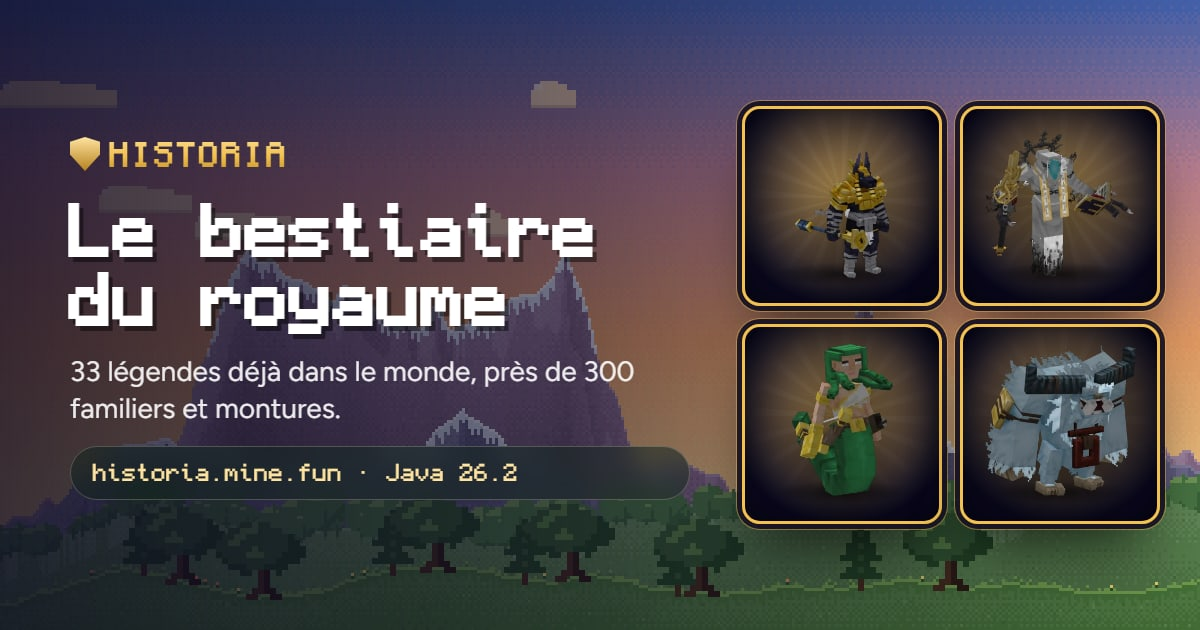
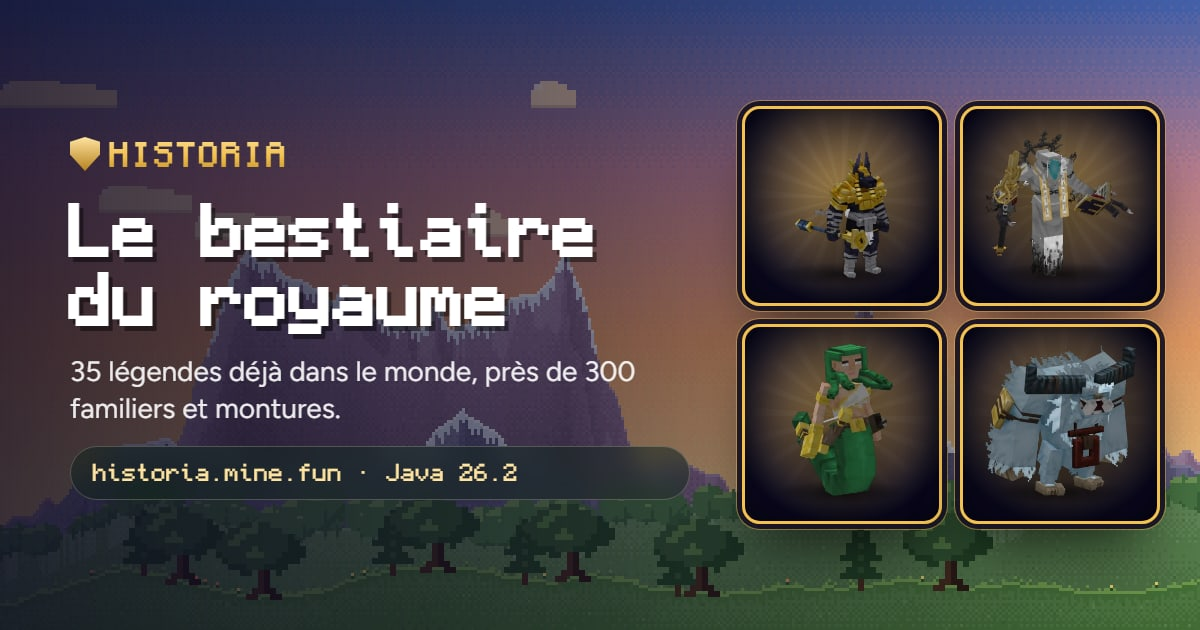
Bestiaire : onglet Créatures (les troupes de chaque peuple), Forgeron nain et Kur ajoutés aux légendes (35) ; données des peuples partagées avec l'accueil

Changed region(s): [[0.0617, 0.573, 0.555, 0.6032]]

diff --git a/bestiaire.html b/bestiaire.html
@@ -4,11 +4,11 @@
 <meta charset="utf-8">
 <meta name="viewport" content="width=device-width, initial-scale=1">
 <title>Bestiaire : boss, familiers et montures · Historia</title>
-<meta name="description" content="Les 33 boss d'Historia déjà présents dans le monde, avec leur biome et leur repaire, et près de 300 familiers et montures à gagner en jeu.">
+<meta name="description" content="Les 35 boss d'Historia déjà présents dans le monde, avec leur biome et leur repaire, et près de 300 familiers et montures à gagner en jeu.">
 <meta property="og:type" content="website">
 <meta property="og:site_name" content="Historia">
 <meta property="og:title" content="Bestiaire : boss, familiers et montures · Historia">
-<meta property="og:description" content="Les 33 boss d'Historia déjà présents dans le monde, avec leur biome et leur repaire, et près de 300 familiers et montures à gagner en jeu.">
+<meta property="og:description" content="Les 35 boss d'Historia déjà présents dans le monde, avec leur biome et leur repaire, et près de 300 familiers et montures à gagner en jeu.">
 <meta property="og:image" content="https://antaooo.github.io/historia-site/img/partage/bestiaire.jpg">
 <meta property="og:url" content="https://antaooo.github.io/historia-site/bestiaire.html">
 <meta property="og:image:width" content="1200">
@@ -25,7 +25,7 @@
 <link rel="canonical" href="https://antaooo.github.io/historia-site/bestiaire.html">
 <meta property="og:locale" content="fr_FR">
 <meta name="twitter:title" content="Bestiaire : boss, familiers et montures · Historia">
-<meta name="twitter:description" content="Les 33 boss d'Historia déjà présents dans le monde, avec leur biome et leur repaire, et près de 300 familiers et montures à gagner en jeu.">
+<meta name="twitter:description" content="Les 35 boss d'Historia déjà présents dans le monde, avec leur biome et leur repaire, et près de 300 familiers et montures à gagner en jeu.">
 <meta name="twitter:image" content="https://antaooo.github.io/historia-site/img/partage/bestiaire.jpg">
 <script type="application/ld+json">{"@context":"https://schema.org","@type":"BreadcrumbList","itemListElement":[{"@type":"ListItem","position":1,"name":"Accueil","item":"https://antaooo.github.io/historia-site/"},{"@type":"ListItem","position":2,"name":"Bestiaire","item":"https://antaooo.github.io/historia-site/bestiaire.html"}]}</script>
 <!-- /seo -->
@@ -62,11 +62,12 @@
     <div class="conteneur">
       <div class="bestiaire-onglets" role="tablist" aria-label="Bestiaire">
         <button type="button" role="tab" id="onglet-legendes" aria-selected="true" aria-controls="panneau-legendes">Légendes</button>
+        <button type="button" role="tab" id="onglet-creatures" aria-selected="false" aria-controls="panneau-creatures">Créatures</button>
         <button type="button" role="tab" id="onglet-compagnons" aria-selected="false" aria-controls="panneau-compagnons">Familiers et montures</button>
       </div>
       <div id="panneau-legendes" role="tabpanel" aria-labelledby="onglet-legendes">
       <div class="bestiaire-outils">
-        <p class="bestiaire-compte"><b id="nb-legendes">33</b> légendes déjà dans le monde</p>
+        <p class="bestiaire-compte"><b id="nb-legendes">35</b> légendes déjà dans le monde</p>
         <label class="recherche"><span class="visuellement-cache">Chercher une légende</span><input id="recherche" type="search" placeholder="Chercher : dragon, marais, Anubis…" autocomplete="off"></label>
       </div>
       <div class="filtres familles" id="familles" role="group" aria-label="Filtrer par famille"></div>
@@ -143,6 +144,14 @@
       <dl class="fiche-boss-lieu"><div><dt>Biome</dt><dd>Caldeira, Coulées de lave</dd></div><div><dt>Repaire</dt><dd>Errant</dd></div></dl>
       <p class="fiche-boss-texte">On ne le trouve dans aucun repaire : il marche au hasard des coulées de lave, flamme vivante qui embrase tout sur son passage.</p>
     </article>
+    <article class="fiche-boss carte-verre" id="boss-dwarf_blacksmith" style="--c:#8A8A96" data-famille="Nains" data-texte="le forgeron nain gardien de la porte scellée pics de granit, falaises blanches porte scellée nains">
+      <figure class="fenetre-boss fiche-boss-portrait"><img src="img/boss/p_dwarf_blacksmith.webp" alt="Le Forgeron nain" loading="lazy" width="320" height="320"></figure>
+      <p class="fiche-boss-famille">Nains</p>
+      <h2 class="fiche-boss-nom">Le Forgeron nain</h2>
+      <p class="fiche-boss-titre">Gardien de la porte scellée</p>
+      <dl class="fiche-boss-lieu"><div><dt>Biome</dt><dd>Pics de granit, Falaises blanches</dd></div><div><dt>Repaire</dt><dd>Porte scellée</dd></div></dl>
+      <p class="fiche-boss-texte">Devant une porte que personne n'a rouverte depuis des siècles, le dernier forgeron du royaume nain monte la garde, marteau au poing. Ses enclumes chauffent encore.</p>
+    </article>
     <article class="fiche-boss carte-verre" id="boss-glume" style="--c:#3F9D8F" data-famille="Esprits et féerique" data-texte="glume l'esprit des champignons géants île aux champignons, forêt sombre champignons géants esprits et féerique">
       <figure class="fenetre-boss fiche-boss-portrait"><img src="img/boss/p_glume.webp" alt="Glume" loading="lazy" width="320" height="320"></figure>
       <p class="fiche-boss-famille">Esprits et féerique</p>
@@ -182,6 +191,14 @@
       <p class="fiche-boss-titre">Le gardien enchaîné</p>
       <dl class="fiche-boss-lieu"><div><dt>Biome</dt><dd>Plaines, Forêt</dd></div><div><dt>Repaire</dt><dd>Église du gardien</dd></div></dl>
       <p class="fiche-boss-texte">Dans une église en ruine, un guerrier drapé et chargé de chaînes dort d'un sommeil de pierre. Approche-toi trop, et il se réveille.</p>
+    </article>
+    <article class="fiche-boss carte-verre" id="boss-kur" style="--c:#6F9A2A" data-famille="Gobelins" data-texte="kur le seigneur gobelin corrompu plaines, forêt lunaire camp gobelin, faille corrompue gobelins">
+      <figure class="fenetre-boss fiche-boss-portrait"><img src="img/boss/p_kur.webp" alt="Kur" loading="lazy" width="320" height="320"></figure>
+      <p class="fiche-boss-famille">Gobelins</p>
+      <h2 class="fiche-boss-nom">Kur</h2>
+      <p class="fiche-boss-titre">Le seigneur gobelin corrompu</p>
+      <dl class="fiche-boss-lieu"><div><dt>Biome</dt><dd>Plaines, Forêt lunaire</dd></div><div><dt>Repaire</dt><dd>Camp gobelin, Faille corrompue</dd></div></dl>
+      <p class="fiche-boss-texte">Plus grand, plus fort et plus cruel que ses congénères, Kur surgit parfois dans les camps gobelins. On le dit né de la faille corrompue qui ronge la forêt lunaire.</p>
     </article>
     <article class="fiche-boss carte-verre" id="boss-lillith" style="--c:#C0453A" data-famille="Démons" data-texte="lillith la démone du cercle bois hanté cercle d'invocation démons">
       <figure class="fenetre-boss fiche-boss-portrait"><img src="img/boss/p_lillith.webp" alt="Lillith" loading="lazy" width="320" height="320"></figure>
@@ -336,6 +353,46 @@
       <p class="fiche-boss-texte">Dans une cabane sur pilotis noyée de vapeurs, un alchimiste poursuit des expériences que nul n'aurait dû tenter. Ce qu'il a créé rôde encore autour du laboratoire.</p>
     </article></div>
       <p class="bestiaire-aucun" id="aucun" hidden>Aucune légende ne correspond. Elle se cache peut-être encore…</p>
+      </div>
+      <div id="panneau-creatures" role="tabpanel" aria-labelledby="onglet-creatures" hidden>
+        <p class="bestiaire-compte">Les troupes que tu croiseras, peuple par peuple.</p>
+        <section class="peuple-bloc" style="--c:#8F6FC9" aria-label="Elfes">
+          <header class="peuple-entete"><h2 class="h2-petit">Elfes</h2><span>Forêt lunaire · Jardin des fées</span><span class="peuple-chefs">Mené par la Druidesse elfe</span></header>
+          <ul class="peuple-troupes"><li><span class="troupe-image"><img src="img/sbires/elven_swordsman.webp" alt="Épéiste elfe" loading="lazy" width="160" height="160"></span><span class="troupe-nom">Épéiste elfe</span></li><li><span class="troupe-image"><img src="img/sbires/elven_ranger.webp" alt="Rôdeur elfe" loading="lazy" width="160" height="160"></span><span class="troupe-nom">Rôdeur elfe</span></li><li><span class="troupe-image"><img src="img/sbires/elven_mage.webp" alt="Mage elfe" loading="lazy" width="160" height="160"></span><span class="troupe-nom">Mage elfe</span></li><li><span class="troupe-image"><img src="img/sbires/elven_runebear.webp" alt="Ours runique" loading="lazy" width="160" height="160"></span><span class="troupe-nom">Ours runique</span></li></ul>
+        </section>
+        <section class="peuple-bloc" style="--c:#8A8A96" aria-label="Nains">
+          <header class="peuple-entete"><h2 class="h2-petit">Nains</h2><span>Pics de granit · Mines</span><span class="peuple-chefs">Mené par le Forgeron nain</span></header>
+          <ul class="peuple-troupes"><li><span class="troupe-image"><img src="img/sbires/dwarf_knight.webp" alt="Chevalier nain" loading="lazy" width="160" height="160"></span><span class="troupe-nom">Chevalier nain</span></li><li><span class="troupe-image"><img src="img/sbires/dwarf_huntsman.webp" alt="Chasseur nain" loading="lazy" width="160" height="160"></span><span class="troupe-nom">Chasseur nain</span></li><li><span class="troupe-image"><img src="img/sbires/dwarf_cleric.webp" alt="Clerc nain" loading="lazy" width="160" height="160"></span><span class="troupe-nom">Clerc nain</span></li><li><span class="troupe-image"><img src="img/sbires/koboldassassin.webp" alt="Assassin kobold" loading="lazy" width="160" height="160"></span><span class="troupe-nom">Assassin kobold</span></li></ul>
+        </section>
+        <section class="peuple-bloc" style="--c:#6F9A2A" aria-label="Gobelins">
+          <header class="peuple-entete"><h2 class="h2-petit">Gobelins</h2><span>Plaines · Savane · Steppe</span><span class="peuple-chefs">Mené par le Roi gobelin et Kur</span></header>
+          <ul class="peuple-troupes"><li><span class="troupe-image"><img src="img/sbires/gp2_goblin_archer.webp" alt="Guerrier gobelin" loading="lazy" width="160" height="160"></span><span class="troupe-nom">Guerrier gobelin</span></li><li><span class="troupe-image"><img src="img/sbires/gp2_goblin_shaman.webp" alt="Chaman gobelin" loading="lazy" width="160" height="160"></span><span class="troupe-nom">Chaman gobelin</span></li></ul>
+        </section>
+        <section class="peuple-bloc" style="--c:#4C78A8" aria-label="Vikings">
+          <header class="peuple-entete"><h2 class="h2-petit">Vikings</h2><span>Taïga · Forêt boréale</span><span class="peuple-chefs">Mené par Bjorn l'Exalté</span></header>
+          <ul class="peuple-troupes"><li><span class="troupe-image"><img src="img/sbires/viking_npc.webp" alt="Guerrier viking" loading="lazy" width="160" height="160"></span><span class="troupe-nom">Guerrier viking</span></li></ul>
+        </section>
+        <section class="peuple-bloc" style="--c:#2F7FA5" aria-label="Pirates">
+          <header class="peuple-entete"><h2 class="h2-petit">Pirates</h2><span>Côtes · Abysses</span><span class="peuple-chefs">Mené par Capitaine DeadBeard et le Kraken</span></header>
+          <ul class="peuple-troupes"><li><span class="troupe-image"><img src="img/sbires/piratepack_crewmate.webp" alt="Pirate de l'équipage" loading="lazy" width="160" height="160"></span><span class="troupe-nom">Pirate de l'équipage</span></li><li><span class="troupe-image"><img src="img/sbires/pirate_swordsman.webp" alt="Pirate sabreur" loading="lazy" width="160" height="160"></span><span class="troupe-nom">Pirate sabreur</span></li><li><span class="troupe-image"><img src="img/sbires/pirate_gunner.webp" alt="Pirate tireur" loading="lazy" width="160" height="160"></span><span class="troupe-nom">Pirate tireur</span></li><li><span class="troupe-image"><img src="img/sbires/piratepack_crab.webp" alt="Crabe pirate" loading="lazy" width="160" height="160"></span><span class="troupe-nom">Crabe pirate</span></li></ul>
+        </section>
+        <section class="peuple-bloc" style="--c:#5F8F7A" aria-label="Morts-vivants">
+          <header class="peuple-entete"><h2 class="h2-petit">Morts-vivants</h2><span>Désert · Marais maudit · Forêts</span><span class="peuple-chefs">Mené par Anubis et Mortos</span></header>
+          <ul class="peuple-troupes"><li><span class="troupe-image"><img src="img/sbires/lr_anubis_mummy.webp" alt="Momie d'Anubis" loading="lazy" width="160" height="160"></span><span class="troupe-nom">Momie d'Anubis</span></li><li><span class="troupe-image"><img src="img/sbires/tower_skeleton.webp" alt="Squelette de la tour" loading="lazy" width="160" height="160"></span><span class="troupe-nom">Squelette de la tour</span></li><li><span class="troupe-image"><img src="img/sbires/azriel_minion.webp" alt="Sbire d'Azriel" loading="lazy" width="160" height="160"></span><span class="troupe-nom">Sbire d'Azriel</span></li><li><span class="troupe-image"><img src="img/sbires/modelfoundry_mutant_zombie_strong.webp" alt="Zombie mutant" loading="lazy" width="160" height="160"></span><span class="troupe-nom">Zombie mutant</span></li></ul>
+        </section>
+        <section class="peuple-bloc" style="--c:#A23A3A" aria-label="Démons">
+          <header class="peuple-entete"><h2 class="h2-petit">Démons</h2><span>Bois hanté · Caldeira</span><span class="peuple-chefs">Mené par Lillith et Démon du chaos</span></header>
+          <ul class="peuple-troupes"><li><span class="troupe-image"><img src="img/sbires/halloweenpackvol3_imp.webp" alt="Diablotin" loading="lazy" width="160" height="160"></span><span class="troupe-nom">Diablotin</span></li><li><span class="troupe-image"><img src="img/sbires/piglin_mage.webp" alt="Piglin mage" loading="lazy" width="160" height="160"></span><span class="troupe-nom">Piglin mage</span></li><li><span class="troupe-image"><img src="img/sbires/piglin_marauder.webp" alt="Piglin maraudeur" loading="lazy" width="160" height="160"></span><span class="troupe-nom">Piglin maraudeur</span></li><li><span class="troupe-image"><img src="img/sbires/demon_reaper.webp" alt="Faucheur démoniaque" loading="lazy" width="160" height="160"></span><span class="troupe-nom">Faucheur démoniaque</span></li></ul>
+        </section>
+        <section class="peuple-bloc" style="--c:#3F9D8F" aria-label="Esprits de la forêt">
+          <header class="peuple-entete"><h2 class="h2-petit">Esprits de la forêt</h2><span>Forêts · Vallée des sakuras</span><span class="peuple-chefs">Mené par le Roi des ents et Hana</span></header>
+          <ul class="peuple-troupes"><li><span class="troupe-image"><img src="img/sbires/ent_warrior.webp" alt="Ent guerrier" loading="lazy" width="160" height="160"></span><span class="troupe-nom">Ent guerrier</span></li><li><span class="troupe-image"><img src="img/sbires/ent_sorcerer.webp" alt="Ent sorcier" loading="lazy" width="160" height="160"></span><span class="troupe-nom">Ent sorcier</span></li><li><span class="troupe-image"><img src="img/sbires/sakura_tree_ent.webp" alt="Ent de cerisier" loading="lazy" width="160" height="160"></span><span class="troupe-nom">Ent de cerisier</span></li><li><span class="troupe-image"><img src="img/sbires/oak_entling.webp" alt="Pousse d'ent" loading="lazy" width="160" height="160"></span><span class="troupe-nom">Pousse d'ent</span></li></ul>
+        </section>
+        <section class="peuple-bloc" style="--c:#6AA7C7" aria-label="Golems">
+          <header class="peuple-entete"><h2 class="h2-petit">Golems</h2><span>Grottes · Géodes</span><span class="peuple-chefs">Mené par le Méga-Gardien et Golem d'améthyste</span></header>
+          <ul class="peuple-troupes"><li><span class="troupe-image"><img src="img/sbires/diamondgolem.webp" alt="Golem de diamant" loading="lazy" width="160" height="160"></span><span class="troupe-nom">Golem de diamant</span></li><li><span class="troupe-image"><img src="img/sbires/emeraldgolem.webp" alt="Golem d'émeraude" loading="lazy" width="160" height="160"></span><span class="troupe-nom">Golem d'émeraude</span></li><li><span class="troupe-image"><img src="img/sbires/quartzgolem.webp" alt="Golem de quartz" loading="lazy" width="160" height="160"></span><span class="troupe-nom">Golem de quartz</span></li><li><span class="troupe-image"><img src="img/sbires/rock_golem.webp" alt="Golem de roche" loading="lazy" width="160" height="160"></span><span class="troupe-nom">Golem de roche</span></li></ul>
+        </section>
+        <p class="note bestiaire-note">Et des centaines d'autres créatures, des plaines aux abysses.</p>
       </div>
       <div id="panneau-compagnons" role="tabpanel" aria-labelledby="onglet-compagnons" hidden>
         <div class="bestiaire-outils">

diff --git a/bestiaire.js b/bestiaire.js
@@ -15,6 +15,8 @@
     ["goblin_king", "Le Roi gobelin", "Chef des pillards verts", "Gobelins", "Plaines, Savane", "Camp gobelin", "Au milieu de son camp de bric et de broc, le roi gobelin commande une horde armée de poêles et de fourches. Là où il trône, sa bande n'est jamais loin."],
     ["hana", "Hana", "Gardienne des sakuras", "Esprits et féerique", "Vallée des sakuras, Jardin des fées", "Sakura colossal", "Au pied du cerisier géant, sur un tapis de pétales roses, une jeune fille aux bois de cerf attend, une lame à la main. La beauté du lieu ne doit pas te faire baisser ta garde."],
     ["kraken", "Le Kraken", "Terreur des épaves englouties", "Créatures marines", "Abysses, Récif des merveilles", "Épaves", "Les navires coulés ne sont pas abandonnés : des tentacules immenses s'enroulent autour de leurs coques. Plonge vers un trésor englouti à tes risques et périls."],
+    ["dwarf_blacksmith", "Le Forgeron nain", "Gardien de la porte scellée", "Nains", "Pics de granit, Falaises blanches", "Porte scellée", "Devant une porte que personne n'a rouverte depuis des siècles, le dernier forgeron du royaume nain monte la garde, marteau au poing. Ses enclumes chauffent encore."],
+    ["kur", "Kur", "Le seigneur gobelin corrompu", "Gobelins", "Plaines, Forêt lunaire", "Camp gobelin, Faille corrompue", "Plus grand, plus fort et plus cruel que ses congénères, Kur surgit parfois dans les camps gobelins. On le dit né de la faille corrompue qui ronge la forêt lunaire."],
     ["kriger", "Kriger", "Le gardien enchaîné", "Morts-vivants", "Plaines, Forêt", "Église du gardien", "Dans une église en ruine, un guerrier drapé et chargé de chaînes dort d'un sommeil de pierre. Approche-toi trop, et il se réveille."],
     ["lillith", "Lillith", "La démone du cercle", "Démons", "Bois hanté", "Cercle d'invocation", "Au cœur du bois hanté, une clairière de cendres s'ouvre autour d'un cercle de pierres calcinées. Le rituel inachevé n'attend qu'un imprudent pour faire surgir la démone."],
     ["lr_anubis", "Anubis", "Seigneur du tombeau ensablé", "Morts-vivants", "Désert", "Tombeau d'Anubis", "Une pyramide à demi enfouie sous le sable garde son maître à tête de chacal. Il dort sur son trône, entouré de momies, jusqu'à ce qu'un pilleur ose s'approcher."],
@@ -38,7 +40,7 @@
     ["wu", "Wu, maître d'encre", "Le maître du pavillon", "Esprits et féerique", "Bambouseraie brumeuse", "Pavillon de l'encre", "Derrière une porte de lune, au bord d'un étang à lotus, un pavillon abrite la table du calligraphe. Qui touche à ses pinceaux réveille le maître d'encre."],
     ["zahar", "Zahar", "L'alchimiste fou du marais", "Sorciers et alchimistes", "Marais maudit", "Laboratoire interdit", "Dans une cabane sur pilotis noyée de vapeurs, un alchimiste poursuit des expériences que nul n'aurait dû tenter. Ce qu'il a créé rôde encore autour du laboratoire."],
   ];
-  const TEINTE = { "Bêtes et monstres": "#C08A4B", "Morts-vivants": "#5F8F7A", "Démons": "#C0453A", "Esprits et féerique": "#3F9D8F", "Golems et êtres minéraux": "#6AA7C7", "Créatures marines": "#2F7FA5", "Elfes": "#8F6FC9", "Gobelins": "#6F9A2A", "Vikings": "#4C78A8", "Pirates": "#2F7FA5", "Humains": "#C08A4B", "Sorciers et alchimistes": "#9A6FB0" };
+  const TEINTE = { "Bêtes et monstres": "#C08A4B", "Morts-vivants": "#5F8F7A", "Démons": "#C0453A", "Esprits et féerique": "#3F9D8F", "Golems et êtres minéraux": "#6AA7C7", "Créatures marines": "#2F7FA5", "Elfes": "#8F6FC9", "Gobelins": "#6F9A2A", "Vikings": "#4C78A8", "Nains": "#8A8A96", "Pirates": "#2F7FA5", "Humains": "#C08A4B", "Sorciers et alchimistes": "#9A6FB0" };
   const tri = (a, b) => a.localeCompare(b, "fr");
   const familles = [...new Set(LEGENDES.map(l => l[3]))].sort(tri);
   const liste = [...LEGENDES].sort((a, b) => tri(a[1].replace(/^(Le |La |L')/, ""), b[1].replace(/^(Le |La |L')/, "")));
@@ -68,13 +70,14 @@
   $$("#familles .filtre").forEach(b => b.addEventListener("click", () => { famille = b.dataset.famille; $$("#familles .filtre").forEach(x => x.setAttribute("aria-pressed", x === b)); filtrer(); }));
   recherche.addEventListener("input", filtrer);
   // ---------- onglets : légendes / familiers et montures ----------
-  const onglets = { legendes: $("#onglet-legendes"), compagnons: $("#onglet-compagnons") };
+  const onglets = { legendes: $("#onglet-legendes"), creatures: $("#onglet-creatures"), compagnons: $("#onglet-compagnons") };
   function ouvrir(nom) {
     for (const [k, b] of Object.entries(onglets)) { b.setAttribute("aria-selected", k === nom); $("#panneau-" + k).hidden = k !== nom; }
     if (nom === "compagnons") chargerCompagnons();
   }
   onglets.legendes.addEventListener("click", () => { ouvrir("legendes"); history.replaceState(null, "", location.pathname); });
   onglets.compagnons.addEventListener("click", () => { ouvrir("compagnons"); history.replaceState(null, "", "#compagnons"); });
+  onglets.creatures.addEventListener("click", () => { ouvrir("creatures"); history.replaceState(null, "", "#creatures"); });
 
   // ---------- familiers et montures (données chargées à la première ouverture) ----------
   let compagnons = null;
@@ -107,6 +110,7 @@
     }).catch(() => { $("#compagnons").innerHTML = `<p class="bestiaire-aucun">Les compagnons n'ont pas pu être chargés.</p>`; compagnons = null; });
   }
   if (location.hash === "#compagnons") ouvrir("compagnons");
+  if (location.hash === "#creatures") ouvrir("creatures");
 
   // bestiaire.html#famille=Démons : ouvre directement une famille
   const voulu = decodeURIComponent((location.hash.match(/famille=([^&]+)/) || [])[1] || "");

diff --git a/accueil.js b/accueil.js
@@ -145,18 +145,7 @@
   addEventListener("resize", () => { clearTimeout(attenteMonde); attenteMonde = setTimeout(() => { if (!R) return; if (Math.abs(monde.clientHeight - dims[1]) > 40 || Math.abs(vue() - dims[0]) > 40) construire(); else aller(off); }, 250); });
 
   /* ---------- III · les peuples : leurs boss en grand, leurs troupes en dessous ---------- */
-  // [nom, couleur, terres, boss [[portrait, nom]], troupes [[portrait, nom]]] : uniquement des créatures présentes en jeu
-  const PEUPLES = [
-    ["Elfes", "#8F6FC9", "Forêt lunaire · Jardin des fées", [["elven_druid", "La Druidesse elfe"]], [["elven_swordsman", "Épéiste elfe"], ["elven_ranger", "Rôdeur elfe"], ["elven_mage", "Mage elfe"], ["elven_runebear", "Ours runique"]]],
-    ["Nains", "#8A8A96", "Pics de granit · Mines", [["dwarf_blacksmith", "Le Forgeron nain"]], [["dwarf_knight", "Chevalier nain"], ["dwarf_huntsman", "Chasseur nain"], ["dwarf_cleric", "Clerc nain"], ["koboldassassin", "Assassin kobold"]]],
-    ["Gobelins", "#6F9A2A", "Plaines · Savane · Steppe", [["goblin_king", "Le Roi gobelin"], ["kur", "Kur"]], [["gp2_goblin_archer", "Guerrier gobelin"], ["gp2_goblin_shaman", "Chaman gobelin"]]],
-    ["Vikings", "#4C78A8", "Taïga · Forêt boréale", [["viking", "Bjorn l'Exalté"]], [["viking_npc", "Guerrier viking"]]],
-    ["Pirates", "#2F7FA5", "Côtes · Abysses", [["pirate_captain", "Capitaine DeadBeard"], ["kraken", "Le Kraken"]], [["piratepack_crewmate", "Pirate de l'équipage"], ["pirate_swordsman", "Pirate sabreur"], ["pirate_gunner", "Pirate tireur"], ["piratepack_crab", "Crabe pirate"]]],
-    ["Morts-vivants", "#5F8F7A", "Désert · Marais maudit · Forêts", [["lr_anubis", "Anubis"], ["mortos", "Mortos"]], [["lr_anubis_mummy", "Momie d'Anubis"], ["tower_skeleton", "Squelette de la tour"], ["azriel_minion", "Sbire d'Azriel"], ["modelfoundry_mutant_zombie_strong", "Zombie mutant"]]],
-    ["Démons", "#A23A3A", "Bois hanté · Caldeira", [["lillith", "Lillith"], ["demon_of_chaos_gama05", "Démon du chaos"]], [["halloweenpackvol3_imp", "Diablotin"], ["piglin_mage", "Piglin mage"], ["piglin_marauder", "Piglin maraudeur"], ["demon_reaper", "Faucheur démoniaque"]]],
-    ["Esprits de la forêt", "#3F9D8F", "Forêts · Vallée des sakuras", [["ent_king", "Le Roi des ents"], ["hana", "Hana"]], [["ent_warrior", "Ent guerrier"], ["ent_sorcerer", "Ent sorcier"], ["sakura_tree_ent", "Ent de cerisier"], ["oak_entling", "Pousse d'ent"]]],
-    ["Golems", "#6AA7C7", "Grottes · Géodes", [["mega_warden", "Le Méga-Gardien"], ["amethystgolem", "Golem d'améthyste"]], [["diamondgolem", "Golem de diamant"], ["emeraldgolem", "Golem d'émeraude"], ["quartzgolem", "Golem de quartz"], ["rock_golem", "Golem de roche"]]],
-  ];
+  const PEUPLES = window.PEUPLES;
   const bannieres = $("#bannieres");
   bannieres.innerHTML = PEUPLES.map(([nom, c, terres, boss, troupes]) => `
     <article class="banniere" role="listitem" style="--c:${c}" aria-label="${nom}">

diff --git a/peuples.js b/peuples.js
@@ -1,0 +1,18 @@
+// Les peuples du royaume : leurs boss et leurs troupes (créatures vérifiées dans les apparitions en jeu).
+// Partagé par l'accueil (chapitre III) et le bestiaire (onglet Créatures) ; lisible aussi par le générateur de pages (Node).
+"use strict";
+(() => {
+  // [nom, couleur, terres, boss [[portrait, nom]], troupes [[portrait, nom]]]
+  const PEUPLES = [
+    ["Elfes", "#8F6FC9", "Forêt lunaire · Jardin des fées", [["elven_druid", "La Druidesse elfe"]], [["elven_swordsman", "Épéiste elfe"], ["elven_ranger", "Rôdeur elfe"], ["elven_mage", "Mage elfe"], ["elven_runebear", "Ours runique"]]],
+    ["Nains", "#8A8A96", "Pics de granit · Mines", [["dwarf_blacksmith", "Le Forgeron nain"]], [["dwarf_knight", "Chevalier nain"], ["dwarf_huntsman", "Chasseur nain"], ["dwarf_cleric", "Clerc nain"], ["koboldassassin", "Assassin kobold"]]],
+    ["Gobelins", "#6F9A2A", "Plaines · Savane · Steppe", [["goblin_king", "Le Roi gobelin"], ["kur", "Kur"]], [["gp2_goblin_archer", "Guerrier gobelin"], ["gp2_goblin_shaman", "Chaman gobelin"]]],
+    ["Vikings", "#4C78A8", "Taïga · Forêt boréale", [["viking", "Bjorn l'Exalté"]], [["viking_npc", "Guerrier viking"]]],
+    ["Pirates", "#2F7FA5", "Côtes · Abysses", [["pirate_captain", "Capitaine DeadBeard"], ["kraken", "Le Kraken"]], [["piratepack_crewmate", "Pirate de l'équipage"], ["pirate_swordsman", "Pirate sabreur"], ["pirate_gunner", "Pirate tireur"], ["piratepack_crab", "Crabe pirate"]]],
+    ["Morts-vivants", "#5F8F7A", "Désert · Marais maudit · Forêts", [["lr_anubis", "Anubis"], ["mortos", "Mortos"]], [["lr_anubis_mummy", "Momie d'Anubis"], ["tower_skeleton", "Squelette de la tour"], ["azriel_minion", "Sbire d'Azriel"], ["modelfoundry_mutant_zombie_strong", "Zombie mutant"]]],
+    ["Démons", "#A23A3A", "Bois hanté · Caldeira", [["lillith", "Lillith"], ["demon_of_chaos_gama05", "Démon du chaos"]], [["halloweenpackvol3_imp", "Diablotin"], ["piglin_mage", "Piglin mage"], ["piglin_marauder", "Piglin maraudeur"], ["demon_reaper", "Faucheur démoniaque"]]],
+    ["Esprits de la forêt", "#3F9D8F", "Forêts · Vallée des sakuras", [["ent_king", "Le Roi des ents"], ["hana", "Hana"]], [["ent_warrior", "Ent guerrier"], ["ent_sorcerer", "Ent sorcier"], ["sakura_tree_ent", "Ent de cerisier"], ["oak_entling", "Pousse d'ent"]]],
+    ["Golems", "#6AA7C7", "Grottes · Géodes", [["mega_warden", "Le Méga-Gardien"], ["amethystgolem", "Golem d'améthyste"]], [["diamondgolem", "Golem de diamant"], ["emeraldgolem", "Golem d'émeraude"], ["quartzgolem", "Golem de quartz"], ["rock_golem", "Golem de roche"]]],
+  ];
+  if (typeof module !== "undefined") module.exports = PEUPLES; else window.PEUPLES = PEUPLES;
+})();

diff --git a/pages.css b/pages.css
@@ -332,3 +332,16 @@
 .bandeau-haut::before { content: ""; position: absolute; top: auto; left: 0; right: 0; bottom: 0; height: 48px; z-index: 3; background: url(img/coupe.png) 0 0 / 64px 48px repeat-x; image-rendering: pixelated; box-shadow: 0 8px 0 rgba(0, 0, 0, .25); pointer-events: none; }
 .bandeau-contenu { padding-bottom: 72px !important; }
 .bandeau .numero, .bandeau .sous-texte { text-shadow: 0 2px 0 rgba(13, 11, 34, .6), 0 0 18px rgba(13, 11, 34, .55); }
+
+/* bestiaire : onglet Créatures, les troupes peuple par peuple */
+.peuple-bloc { margin-bottom: 22px; padding: 18px 20px 20px; border-radius: 20px; background: rgba(16, 36, 26, .55); border: 1px solid var(--verre-bord); border-left: 5px solid var(--c); }
+.peuple-entete { display: flex; align-items: baseline; flex-wrap: wrap; gap: 6px 14px; margin-bottom: 14px; }
+.peuple-entete .h2-petit { font-size: 24px; }
+.peuple-entete span { font-size: 14px; color: var(--texte-doux); }
+.peuple-chefs { color: var(--or-clair) !important; font-style: italic; }
+.peuple-troupes { list-style: none; margin: 0; padding: 0; display: grid; grid-template-columns: repeat(auto-fill, minmax(140px, 1fr)); gap: 12px; }
+.peuple-troupes li { display: flex; flex-direction: column; align-items: center; gap: 6px; padding: 8px; border-radius: 14px; background: rgba(13, 11, 34, .45); border: 1px solid rgba(255, 255, 255, .1); }
+.peuple-troupes .troupe-image { width: 100%; aspect-ratio: 1; display: grid; place-items: center; border-radius: 10px; background: radial-gradient(circle at 50% 45%, color-mix(in srgb, var(--c) 45%, #241C44), #120F2A 75%); }
+.peuple-troupes .troupe-image img { width: 90%; height: auto; }
+.peuple-troupes .troupe-nom { font-family: var(--titre); font-size: 13px; text-align: center; }
+@media (max-width: 600px) { .peuple-troupes { grid-template-columns: repeat(2, 1fr); } }

diff --git a/nouveautes.html b/nouveautes.html
@@ -62,7 +62,7 @@
       <ol class="journal">
         <li class="journal-entree">
           <time datetime="2026-10-10">10 octobre 2026</time>
-          <article class="carte-verre"><h2 class="h2-petit">Le site du royaume s'agrandit</h2><p>Le site d'Historia s'enrichit : un monde à parcourir biome par biome dès l'accueil, un bestiaire avec 33 légendes déjà présentes dans le monde et près de 300 familiers et montures, un guide du débutant, la feuille de route et ce journal.</p></article>
+          <article class="carte-verre"><h2 class="h2-petit">Le site du royaume s'agrandit</h2><p>Le site d'Historia s'enrichit : un monde à parcourir biome par biome dès l'accueil, un bestiaire avec 35 légendes déjà présentes dans le monde et près de 300 familiers et montures, un guide du débutant, la feuille de route et ce journal.</p></article>
         </li>
         <li class="journal-entree">
           <time datetime="2026-10-09">9 octobre 2026</time>

diff --git a/index.html b/index.html
@@ -163,7 +163,7 @@
       <div class="selecteur" id="selecteur" role="tablist" aria-label="Choisir une légende"></div>
       <button type="button" class="fleche" data-pas="1" aria-label="Légende suivante"><svg width="22" height="22" viewBox="0 0 24 24" aria-hidden="true"><path d="M9 5l7 7-7 7" fill="none" stroke="currentColor" stroke-width="2.6" stroke-linecap="round" stroke-linejoin="round"/></svg></button>
     </div>
-    <p class="legendes-lien"><a href="bestiaire.html">Voir les 33 légendes du bestiaire →</a></p>
+    <p class="legendes-lien"><a href="bestiaire.html">Voir les 35 légendes du bestiaire →</a></p>
   </div>
 </section>
 
@@ -292,6 +292,7 @@
 <script src="commun.js"></script>
 <script src="extras.js"></script>
 <script src="donnees.js"></script>
+<script src="peuples.js"></script>
 <script src="monde.js"></script>
 <script src="tour.js"></script>
 <script src="accueil.js"></script>
